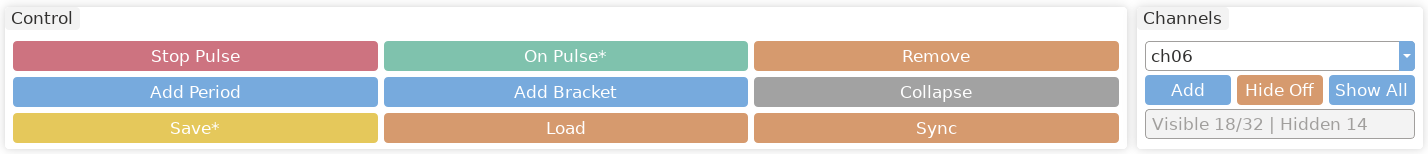
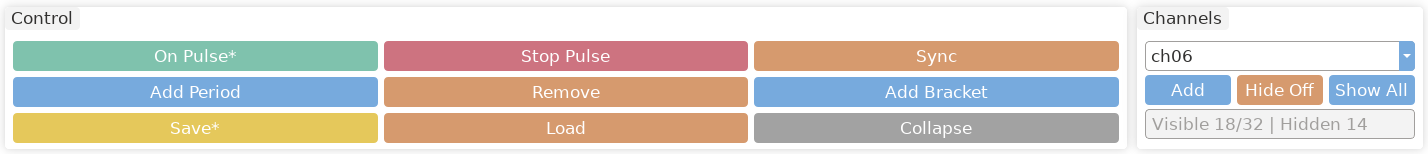
fix(rtl): latch DACs on inverted clk (eye-centre) -- kills the "third DA value between edge periods" race
The 4 da_clkN latch strobes were the plain FPGA clk (out_final[n]=clk_en[n]?clk:out[n]).
The 40 DAC data bits (zlc_bus_out -> da_bias_*/da_dipole) are launched on posedge clk, so a
DAC value CHANGES on the rising edge -- the same edge the DAC latched on, and (at a period
boundary) the same edge ~30 TTLs all switch on. A value change was therefore captured
half-old/half-new = a sporadic THIRD code. Seen on pulses/T.json (da_bias_y -192->388 =
code 320->900): a third level appeared sporadically between the two edge periods; a ~200 ms
HOLD gap only masked it by moving the DAC step off the busy boundary.

FIX: the clk mux now drives ~clk (out_final[n]=clk_en[n]?~clk:out[n]), so each DAC latches
on the clk FALLING edge = the CENTRE of the data eye (~10 ns settled each side at 50 MHz)
and the quiet half-cycle (nothing else switches there) -> always captures the clean settled
word, no gap needed, for every DAC and every transition.

Proof: sim/tb_da_clk_phase.v drives the REAL engine -- the segment step 320->900 is
glitch-free tick-by-tick (logic clean), and an I/O timing model shows a coincident latch
captures a third code for realistic per-bit skew while the eye-centre latch never does.

- top: out_final clk mux -> ~clk + DAC LATCH PHASE rationale comment
- test_top_has_per_channel_clk_mux: assert ~clk + rationale, reject plain clk
- pulse_table.py / image.py comments, fpga + frontend manuals (template + rendered + PDF),
[…]

diff --git a/docs/fpga_manual/fpga_manual_zh.tex b/docs/fpga_manual/fpga_manual_zh.tex
@@ -3,7 +3,7 @@
 
 \begin{document}
 \frontmatter
-\zlctitlepage{ZLC FPGA Pulse Streamer 手册}{Artix-7 35T 边沿流送器 / 1-tick 预取 / 无限流式扫描 / JTAG-to-AXI}{RTL、1-tick 预取、双 bank 流式、仿射扫描引擎、模拟总线 DAC、编译上传流程、资源预算}{2026-06-10}
+\zlctitlepage{ZLC FPGA Pulse Streamer 手册}{Artix-7 35T 边沿流送器 / 1-tick 预取 / 无限流式扫描 / JTAG-to-AXI}{RTL、1-tick 预取、双 bank 流式、仿射扫描引擎、模拟总线 DAC、编译上传流程、资源预算}{2026-06-11}
 \tableofcontents
 \cleardoublepage
 \mainmatter
@@ -29,7 +29,7 @@ BRAM:        1,800 Kb (50 x 36 Kb RAMB36)   DSP: 90
 \section{两句话能力总结}
 \begin{itemize}
   \item \tfocus{最小脉冲宽度与分辨率 = 1 个 tick（20 ns）}。背靠背的 1-tick 边沿能逐周期、一拍一个地打出来——靠的是一条连续预取流水线把 BRAM 读延迟藏掉（见第三章）。
-  \item \tfocus{扫描点数无上限}。常驻一个 2-bank ping-pong 窗口（4096 点），主机在游标后面把空出来的 bank 流式回填下一段（见第五章）。配合 N-slot 仿射扫描，\tfocus{duration 与 DAC 值}（仅这两类可扫）可以\tfocus{在一次连续运行里任意组合地无缝扫描}；channel 延时\tfocus{不是}扫描量，它是加在输出上的逐通道\tfocus{事件调度延时}（每条 channel 一个固定值，正/负/零；TTL 与 DAC 总线延时现在\tfocus{同型}（都是事件调度），上限同为 32 位字段约 $\pm 42.9$ s——毫秒级 emCCD 延时直接可用，见第六章）。
+  \item \tfocus{扫描点数无上限}。常驻一个 2-bank ping-pong 窗口（4096 点），主机在游标后面把空出来的 bank 流式回填下一段（见第五章）。配合 N-slot 仿射扫描，\tfocus{duration 与 DAC 值}（仅这两类可扫）可以\tfocus{在一次连续运行里任意组合地无缝扫描}；channel 延时\tfocus{不是}扫描量，它是加在输出上的逐通道\tfocus{事件调度延时}（每条 channel 一个固定值，正/负/零；TTL 上限由 32 位字段决定，约 $\pm 42.9$ s——毫秒级 emCCD 延时直接可用；DAC 总线延时仍走深度 \pyapi{DELAY_DEPTH} 的环形缓冲，上限 $\sim 41\,\mu$s，见第六章）。
 \end{itemize}
 
 \section{文件}
@@ -292,31 +292,31 @@ delay line (硬件, 真相): [.....0.....][原信号右移 d.....]   <- fire 前
 
 机理要点（\tfocus{一块普通环形缓冲，存输出、延后放出}）：
 \begin{itemize}
-  \item \tfocus{TTL：18 路真 TTL 输出可独立延时——事件调度器（event scheduler）。} TTL 波形是\tfocus{翻转稀疏}的，所以不再每拍存一位（旧 SRL 线 $\sim$4.1k LUT、上限 41 $\mu$s），改为存\tfocus{翻转事件}：无延时位在 tick $t$ 翻转时，向该 channel 的事件 FIFO（深 \pyapi{EVT_DEPTH}，默认 256，每项 49 bit）推入 $(t+d-1,\ \text{新电平})$；一个自由运行的 48 位全局计数器 \pyapi{g_time} 等值弹出到输出寄存器——于是 \pyapi{out[t]=in[t-d]} \tfocus{物理}精确成立（首个 $d$ 拍沉默 = 首帧正确；$d=1$ 走一级寄存器；$d=0$ 直通），\tfocus{不做任何按周期取模}。每个延时槽是自己的一块 \pyapi{ram_style="distributed"} 二维 FIFO，用 \pyapi{generate} 循环（\pyapi{g_evtfifo}）实例化：一整块三维 \pyapi{evt_mem[slot][depth]} 数组\tfocus{推不成}分布式 RAM（各槽读写指针独立，不像 \pyapi{bus_ring} 共享写指针），会退化成触发器——深度 256 即 $18\times256\times49\approx$ 226k FF，35T 放不下（一次真实 build 就是这样失败的）。FIFO 只\tfocus{压缩}给能延时的通道：62 = \tfocus{18 路真 TTL} + 40 个 DA 总线位（引脚由 \pyapi{bus_out} 驱动）+ 4 个 \pyapi{da_clk} 时钟脚，后两类\tfocus{没有} FIFO（GUI 置灰、API 拒绝它们的延时）。每通道 32 位延时值经 DELAY 寄存器区（\pyapi{R_DELAY_BASE}）上传，上限 32 位字段（$\sim$42.9 s，毫秒级 emCCD 延时直接可用）。合并仍是不相交直通——延时\tfocus{绝不}打扰别的 channel。
-  \item \tfocus{容量契约：在途翻转数 $\le$ \pyapi{EVT_DEPTH}（默认 256，可配置）。} 在 tick $t$ 推入的事件在 FIFO 里停留到 $t+d-1$，所以 FIFO 占用 = 该通道\tfocus{自己的 $d$ 窗口}内的翻转数。主机校验器对\tfocus{完整日程}做精确计数——每个扫描点按各自的仿射平移后的边沿时刻、bracket 循环、\pyapi{repeat_forever} 的回绕缝、以及\tfocus{跨多帧}的长窗口全部计入（早期版本只查单帧、漏掉了扫描缝和 $d>$ 帧长的情况）；在途数超过 \pyapi{EVT_DEPTH} 的延时会在上硬件前\tfocus{清晰报错并给出最长可用物理延时}，绝不静默丢弃。
-  \item \tfocus{深度从板级配置单源驱动。} \pyapi{evt_fifo_depth} 只写在 \filepath{streamer_config.json}：主机（校验/估算）读它，\tfocus{build 也读它}——\pyapi{image.emit_geom_tcl} 把配置变成顶层 \pyapi{-generic}（\pyapi{EVT_FIFO_DEPTH}/\pyapi{DELAY_DEPTH}/\pyapi{EDGE_ADDR_WIDTH}/\pyapi{BANK_SIZE}），\filepath{build_and_program.bat} 生成 \filepath{geom.tcl}，\filepath{create_project.tcl} 源入并 \pyapi{set_property generic}，所以改 JSON 就改\tfocus{综合出的 bitstream}（例如 LUT 紧张时把 256 改成 128）。契约测试断言每个 generic 都是真实的顶层参数（否则 Vivado 会静默忽略）。
-  \item \tfocus{DAC：4 条总线各自可延时，已统一进事件调度器，一条总线的 10 位共享一个延时。} 每个 DA bit 现在是\tfocus{自己的 1 位事件 FIFO}（\pyapi{g_busdly}，从无延时总线值 \pyapi{bus_value_active} 喂入，复位到该 bit 的 \pyapi{BUS_SAFE_VALUE} 电平 → 未驱动总线静息在 0\,V），机制与 TTL 完全相同：翻转入队、\pyapi{g_time} 等值弹出。一条总线的 10 个 bit\tfocus{共享同一个} 32 位逐总线延时（\pyapi{del_bus_ticks}），所以整条总线（固定值、被扫值、或 ramp）被同一个 $d$ 整体延后。\tfocus{旧的 2048-tick 环已删除}，DAC 延时范围现在与 TTL 一致（32 位）。
+  \item \tfocus{TTL：62 路全部可独立延时——事件调度器（event scheduler）。} TTL 波形是\tfocus{翻转稀疏}的，所以不再每拍存一位（旧 SRL 线 $\sim$4.1k LUT、上限 41 $\mu$s），改为存\tfocus{翻转事件}：无延时位在 tick $t$ 翻转时，向该 channel 的小事件 FIFO（深 \pyapi{EVT_DEPTH}=16，每项 49 bit）推入 $(t+d-1,\ \text{新电平})$；一个自由运行的 48 位全局计数器 \pyapi{g_time} 等值弹出到输出寄存器——于是 \pyapi{out[t]=in[t-d]} 精确成立（首个事件前为 0；$d=1$ 走一级寄存器；$d=0$ 直通）。存储随\tfocus{在途翻转数}而非延时长度增长：62 路共 $\sim$2k LUT，TTL 延时上限提升到 32 位字段（$\sim$42.9 s——毫秒级 emCCD 延时直接可用）。每通道 32 位延时值经独立的 DELAY 寄存器区（\pyapi{R_DELAY_BASE}，每 channel 一个 32 位字）上传。合并仍是不相交直通：被延时位用调度结果，其余位原样——延时\tfocus{绝不}打扰别的 channel。
+  \item \tfocus{容量契约：在途翻转数 $\le$ \pyapi{EVT_DEPTH}（默认 16，可配置）。} 在 tick $t$ 推入的事件在 FIFO 里停留到 $t+d-1$，所以 FIFO 占用 = 该通道\tfocus{自己的 $d$ 窗口}内的翻转数。主机校验器对\tfocus{完整日程}做精确计数——每个扫描点按各自的仿射平移后的边沿时刻、bracket 循环、\pyapi{repeat_forever} 的回绕缝、以及\tfocus{跨多帧}的长窗口全部计入（早期版本只查单帧、漏掉了扫描缝和 $d>$ 帧长的情况）；超限在上硬件前清晰报错。深度可整体重建调整：\filepath{streamer_config.json} 的 \pyapi{evt_fifo_depth} + 顶层参数 \pyapi{EVT_FIFO_DEPTH} 保持一致即可。
+  \item \tfocus{repeat\_forever 下长延时自动按周期取模。} 无限循环时无延时流是周期 $S$（一次完整扫掠的 tick 数）的周期函数，于是 $d \ge S$ 与 $d \bmod S$ \tfocus{稳态逐 tick 等价}——编译器自动把这样的延时按 $d \bmod S$ 写入寄存器（\pyapi{effective_channel_delays}），否则在途翻转数会按 $\sim$每扫掠翻转数 $\times d/S$ 增长而溢出。唯一差别在启动期：被延时通道从 $d \bmod S$ 起就开始输出（提前了 $\lfloor d/S \rfloor$ 个扫掠），而不是沉默整个 $d$；用户在脉冲表里写的原始延时原样保留。有限次运行不做此变换。
+  \item \tfocus{DAC：4 条总线各自可延时，一条总线的 10 位共享一个延时。} 每条 10-bit 总线有一条\tfocus{10 位宽的环}（\pyapi{bus_ring}），机制与 TTL 完全相同：存下该总线的无延时输出值，$d$ 个 tick 后放出。一条总线的 10 个 bit\tfocus{共享同一个}逐总线延时（\pyapi{del_bus_ticks}），所以整条总线（固定值、被扫值、或 ramp）都被整体延后，而不是每 bit 单独延。
   \item \tfocus{负延时 = 全局平移 $G$。} 一条 channel 的 $-d$ 等价于其它\tfocus{所有} channel 都 $+|d|$。主机把全局平移 $G=\max(0,-\min(\text{delays}))$ 折进每条 channel 的有效延时，使最早的那条 channel 落在 0、缓冲只会看到 $\ge 0$ 的延时。零延时即直通。
-  \item \tfocus{DAC 与 TTL 延时范围一致（已统一）。} DAC 总线延时和 TTL 同型的事件调度器，上限同为 32 位字段（$\sim$42.9\,s）——所以负 TTL 延时折出的全局平移 $G$ 也能加到总线上，\tfocus{不再有范围不匹配}（这正是统一的目的）。容量是\tfocus{每 bit 在途数值变化数} $\le$ \pyapi{BUS_EVT_DEPTH}（默认 64：有 \pyapi{bus_count*bus_width}=40 个 FIFO、比 TTL 浅以省 LUT；可在 \filepath{streamer_config.json} 的 \pyapi{bus_evt_fifo_depth} 重配）。唯一压力源是\tfocus{被延时的长 ramp}（每步一个数值变化事件），超 \pyapi{BUS_EVT_DEPTH} 在上硬件前清晰报错；普通 DAC 用法远低于此。
+  \item \tfocus{DAC 总线延时有界（环形缓冲的根本性质）。} 与 TTL 的事件调度器不同，DAC 总线延时仍是每拍存值的环形缓冲：深度 \pyapi{DELAY_DEPTH = 2048} 个 tick（20\,ns/tick 下约 40\,$\mu$s）。要把一个\tfocus{非重复}的总线值流延时 $d$，必须存下它 $d$ 个 tick 的输出——这是字面延时线的本质；但缓冲存的是\tfocus{输出}（不是整张序列），所以它很小。超过 \pyapi{DELAY_DEPTH} 的总线延时会在 validate 与映像打包时\tfocus{被清晰报错拒绝}（在上硬件之前，绝不静默）。TTL 延时\tfocus{不受}此深度约束（32 位字段，受上面的在途翻转契约约束）。
   \item \pyapi{repeat_forever} 倒回\tfocus{边沿 0}、重放\tfocus{整张帧}——因为延时是加在输出上的逐通道延时线（不烘进边沿），没有需要跳过的"加性延时前导帧"。编译器恒发 \pyapi{repeat_from_index}=0；RTL（\filepath{zlc_edge_streamer.v} 与顶层）仍保留 \pyapi{repeat_from_loop_start} 倒回稳态帧的分支，但对当前实发的程序而言是死路径。
 \end{itemize}
 
 \begin{notebox}[如何证明]
-预览保持循环（只为显示）。硬件/编译路径由一个字面延时真值预言 \pyapi{delay_line_reference}（\pyapi{output_delayed[t]=output_undelayed[t-d]}，fire 前为 0）加上 \filepath{host/engine_model.py} 的事件调度器/环形缓冲镜像逐周期模型证明：编译出的程序过这些周期模型后，与延时线真值\tfocus{逐 tick 相同}（覆盖 TTL 多 channel、DAC 逐总线、负延时折 $G$、与 duration 扫描组合）。容量契约由三层证据锁定：（1）随机化测试证明解析的在途计数 = 逐拍 push/pop 占用的暴力模拟，且周期公式 = 显式展开；（2）只要解析说"装得下深度 $K$"，$K$ 深 FIFO 镜像就逐 tick 复现理想延时；（3）xsim 测试台 \filepath{sim/tb_evt_depth.v} 在\tfocus{真 RTL 引擎}上验证边界：恰好 16 个在途翻转 = tick 级精确，16+2 个 = 只丢弃多余的 2 个翻转（输出只缺那一个脉冲，绝无污染）。超过 32 位字段的\tfocus{总线}延时在 \pyapi{validate_pulse_streamer_program} 与 \pyapi{pack_program} 处都被清晰拒绝（DAC 与 TTL 同型、同范围）。
+预览保持循环（只为显示）。硬件/编译路径由一个字面延时真值预言 \pyapi{delay_line_reference}（\pyapi{output_delayed[t]=output_undelayed[t-d]}，fire 前为 0）加上 \filepath{host/engine_model.py} 的事件调度器/环形缓冲镜像逐周期模型证明：编译出的程序过这些周期模型后，与延时线真值\tfocus{逐 tick 相同}（覆盖 TTL 多 channel、DAC 逐总线、负延时折 $G$、与 duration 扫描组合）。容量契约由三层证据锁定：（1）随机化测试证明解析的在途计数 = 逐拍 push/pop 占用的暴力模拟，且周期公式 = 显式展开；（2）只要解析说"装得下深度 $K$"，$K$ 深 FIFO 镜像就逐 tick 复现理想延时；（3）xsim 测试台 \filepath{sim/tb_evt_depth.v} 在\tfocus{真 RTL 引擎}上验证边界：恰好 16 个在途翻转 = tick 级精确，16+2 个 = 只丢弃多余的 2 个翻转（输出只缺那一个脉冲，绝无污染）。超过 \pyapi{DELAY_DEPTH}=2048 的\tfocus{总线}延时在 \pyapi{validate_pulse_streamer_program} 与 \pyapi{pack_program} 处都被清晰拒绝。
 \end{notebox}
 
 \section{DAC 总线延时与 TTL 完全同源}
-模拟总线（DAC）的延时机制和 TTL\tfocus{完全相同}且已统一：每个 DA bit 是\tfocus{自己的 1 位事件 FIFO}（\pyapi{g_busdly}，从无延时总线值喂入），翻转入队、\pyapi{g_time} 等值弹出。一条总线的\tfocus{10 个 bit 共享一个} 32 位逐总线延时（\pyapi{del_bus_ticks}），所以无论这个 DAC 值是\tfocus{固定}值、\tfocus{被扫}值，还是\tfocus{斜坡（ramp）}，整条总线都被同一个 $d$ 整体延后；在 $t < d$ 之前总线输出保持 \pyapi{BUS_SAFE_VALUE} 中点码（0\,V）、首帧正确。逐总线延时与 TTL 共享\tfocus{同一个}全局平移 $G$ 且\tfocus{范围一致}（32 位），容量是\tfocus{每 bit 在途数值变化数} $\le$ \pyapi{BUS_EVT_DEPTH}（超过即清晰拒绝）。主机把每条总线的延时 tick 数作为常数携带（\pyapi{bus_delays}）。
+模拟总线（DAC）的延时机制和 TTL\tfocus{完全相同}：每条总线一条 10 位宽的环（\pyapi{bus_ring}），存下该总线的无延时输出，$d$ 个 tick 后放出。一条总线的\tfocus{10 个 bit 共享一个}逐总线延时（\pyapi{del_bus_ticks}），所以无论这个 DAC 值是\tfocus{固定}值、\tfocus{被扫}值，还是\tfocus{斜坡（ramp）}，整条总线都被同一个 $d$ 整体延后；在 $t < d$ 之前总线输出为 0。逐总线延时与 TTL 共享\tfocus{同一个}全局平移 $G$，并受\tfocus{同一个}有界深度 \pyapi{DELAY_DEPTH} 约束（超过即清晰拒绝）。主机把每条总线的延时 tick 数作为常数携带（\pyapi{bus_delays}）。
 
 \textbf{成本小结。} TTL 用\tfocus{一条} \pyapi{CHANNEL_COUNT} 位宽的环、每条 DAC 总线用一条 10 位宽的环；这些环都是\tfocus{分布式 RAM（LUTRAM / distributed）}，\tfocus{不占额外 BRAM}（\pyapi{ram_style="distributed"}）。延时 tick 数走稠密的 CTRL 字（\pyapi{delay_ticks} / \pyapi{bus_delay_ticks}）下发，\tfocus{没有}延时上传映像、\tfocus{没有}迷你装载器。在 35T（\pyapi{xc7a35t}）上整套延时落地后仍有余量：LUT 约 59\%、BRAM 39/50、DSP 约 58\%。
 
 \section{逐通道 clk 输出（把某通道直接接到时钟）}
 有时需要某个 TTL 引脚直接输出 FPGA 的 \pyapi{clk}（例如给外部 DAC 喂时钟），而引擎按 tick 寄存的输出本身\tfocus{产生不出}一个时钟方波。为此顶层在引脚映射上加了一层\tfocus{运行时可选的 clk 复用}：一个 \pyapi{CHANNEL_COUNT} 位的 \pyapi{clk\_enable} 掩码（CTRL 字 \pyapi{C_CLK_ENABLE}，紧接 \pyapi{BUS_DELAY_TICKS} 之后，62 位占 2 个字）随程序映像下发，顶层据此把每个引脚选成
 \begin{codeblock}[逐通道 clk 复用（zlc\_pulse\_streamer\_top.v）]
-assign out_final[n] = clk_en[n] ? clk : out[n];   // n: 0..CHANNEL_COUNT-1
+assign out_final[n] = clk_en[n] ? ~clk : out[n];  // n: 0..CHANNEL_COUNT-1（strobe = 反相 clk）
 // 引脚映射改为驱动 out_final（不是 out）：assign trig = out_final[6]; assign da_clk0 = out_final[28]; ...
 \end{codeblock}
-所以被标记为 clk 的通道，其引脚\tfocus{恒等于 clk}，与引擎完全无关。配套地，主机编译时把该通道的 mask 位\tfocus{强制清 0}（\pyapi{masks[i] &= ~clk_enable}），引擎\tfocus{绝不驱动}它、也就\tfocus{不会覆盖}clk 行为；\pyapi{clk\_enable} 掩码由 \pyapi{PulseTableState.clk\_channels} 经 \pyapi{clk\_enable\_mask()} 算出，随 \pyapi{RuntimeSequenceProgram.clk\_enable} 打包进 CTRL 字（\pyapi{host.image.CtrlWords.CLK_ENABLE}）。换哪条通道做 clk\tfocus{只是改这份运行时掩码、不需要重新综合}；但首次引入这套 mux 需要重新构建一次 bitstream。DAC 总线成员位不允许设成 clk（会破坏 DAC，GUI 已禁用）。这套 mux 是纯组合逻辑、几乎不占资源。
+所以被标记为 clk 的通道，其引脚输出\tfocus{反相的 clk}（即 clk 的\tfocus{下降沿}对应选通上升沿），与引擎完全无关。\tfocus{为什么是反相而不是直接 clk}：DAC 的 40 个并行数据位（\pyapi{da\_bias\_*}/\pyapi{da\_dipole}）由引擎在 \pyapi{posedge clk} 寄存——也就是\tfocus{在上升沿改变}。若选通就是 \pyapi{clk}，DAC 会在\tfocus{同一个上升沿}锁存正在跳变的数据（而且 period 边界上还叠加几十路 TTL 同时翻转的开关噪声），把一次跳变锁成\tfocus{半新半旧的第三个码}——这正是\tfocus{“两个 edge period 之间偶发出现第三种 DA 值”}的根因（当年靠在两段之间塞一段 $\sim$200\,ms 的 hold 把 DAC 跳变挪离这个忙沿，只是治标）。用\tfocus{反相 clk}做选通，DAC 改在 clk 下降沿锁存 = 数据眼图\tfocus{正中}（50\,MHz 下两侧各 $\sim$10\,ns 已稳定）、且是没有任何东西翻转的\tfocus{安静半周期}，于是\tfocus{永远}锁到干净稳定的码。证据见 \filepath{sim/tb\_da\_clk\_phase.v}（引擎段跳变逐 tick 干净无中间值；同沿锁存在真实偏斜下会锁进第三个码，眼图正中锁存\tfocus{从不}）。配套地，主机编译时把该通道的 mask 位\tfocus{强制清 0}（\pyapi{masks[i] &= ~clk_enable}），引擎\tfocus{绝不驱动}它、也就\tfocus{不会覆盖}clk 行为；\pyapi{clk\_enable} 掩码由 \pyapi{PulseTableState.clk\_channels} 经 \pyapi{clk\_enable\_mask()} 算出，随 \pyapi{RuntimeSequenceProgram.clk\_enable} 打包进 CTRL 字（\pyapi{host.image.CtrlWords.CLK_ENABLE}）。换哪条通道做 clk\tfocus{只是改这份运行时掩码、不需要重新综合}；但首次引入这套 mux 需要重新构建一次 bitstream。DAC 总线成员位不允许设成 clk（会破坏 DAC，GUI 已禁用）。这套 mux 是纯组合逻辑、几乎不占资源。
 
 \section{两件没有下放进 sequencer 的事}
 两条边界澄清，免得把架构搞混：
@@ -335,10 +335,10 @@ assign out_final[n] = clk_en[n] ? clk : out[n];   // n: 0..CHANNEL_COUNT-1
 RAMB36: 39/50 = 78%      LUT: 26%   FF: 12%   DSP: 9%
 \end{codeblock}
 
-三块并行边沿 BRAM（tick/coeff/mask）+ 扫描窗口 BRAM 占了 RAMB36 预算的大头；\tfocus{总线段表是 LUTRAM（distributed），不占 RAMB36}——因为总线/ramp 引擎每 tick 组合读它们，搬进 BRAM 会破坏组合读。\tfocus{事件调度延时}（18 路真 TTL 各一块 \pyapi{EVT_DEPTH}=256 深 + 40 个 DA bit 各一块 \pyapi{BUS_EVT_DEPTH}=64 深的 1 位事件 FIFO）同样是分布式 RAM，\tfocus{不占额外 BRAM}——存的是\tfocus{翻转事件}（而非每拍值），且只给能延时的信号付深度。把延时一并算进去后，35T 的整体落地约为 LUT 81\%、BRAM 39/50、DSP 58\%（逐 bit DA @256 会到 ~103\% 超限，故 DA 用 64 深）。Vivado \pyapi{report_utilization} / \pyapi{report_timing_summary} 是最终权威，Python 估算只是预算指引。
+三块并行边沿 BRAM（tick/coeff/mask）+ 扫描窗口 BRAM 占了 RAMB36 预算的大头；\tfocus{总线段表是 LUTRAM（distributed），不占 RAMB36}——因为总线/ramp 引擎每 tick 组合读它们，搬进 BRAM 会破坏组合读。\tfocus{字面延时线}（TTL 的 \pyapi{CHANNEL_COUNT} 位宽环 + 每条 DAC 总线的 10 位宽环，深度 \pyapi{DELAY_DEPTH}=2048）同样是分布式 RAM，\tfocus{不占额外 BRAM}——这正是字面延时线能放进 35T 的原因：它存的是\tfocus{输出}（而非整张序列），所以缓冲很小。把延时线一并算进去后，35T 的整体落地约为 LUT 59\%、BRAM 39/50、DSP 58\%。Vivado \pyapi{report_utilization} / \pyapi{report_timing_summary} 是最终权威，Python 估算只是预算指引。
 
 \section{64 位 tick 架构评估（何时需要、怎么改、资源够不够）}
-当前 32 位 tick（20 ns）封顶的是\tfocus{单个帧}的时长 $\sim$85.9 s——不是总运行时长（repeat forever 无限跑、扫掠点数无上限、实验循环不受限），TTL 延时另有 32 位字段（$\sim$42.9 s，物理延时、首帧正确、\tfocus{不取模}）。真正的长期隐患只有一个：调度器的自由运行计数器 \pyapi{g_time} 是 48 位，连续运行 $\sim$65 天后回绕。
+当前 32 位 tick（20 ns）封顶的是\tfocus{单个帧}的时长 $\sim$85.9 s——不是总运行时长（repeat forever 无限跑、扫掠点数无上限、实验循环不受限），TTL 延时另有 32 位字段（$\sim$42.9 s，且 repeat forever 下更长的延时自动按周期取模）。真正的长期隐患只有一个：调度器的自由运行计数器 \pyapi{g_time} 是 48 位，连续运行 $\sim$65 天后回绕。
 
 若将来确有 $>$85.9 s 的单帧需求，可行方案是\tfocus{只加宽基准时间轴}：边沿基准 tick、帧计数器 \pyapi{tc}、\pyapi{loop_end} 与各比较器升到 64 位，而\tfocus{扫描点 slot 值与系数保持 32/16 位}（每个扫描点的仿射\tfocus{偏移}量 $\pm 42.9$ s 足够）——这样 \pyapi{coeff$\times$slot} 乘积和全部 52 个 DSP 映射\tfocus{原样不动}，只有末级累加/加法变宽（进位链，不吃 DSP）。代价：tick BRAM $4096\times 32 \to 4096\times 64$ 即 $+4$ 块 RAMB36（27$\to$31）、比较器/影子寄存器约 $+1$k LUT、$+1.5$k FF；64 位进位链 $\sim$4 ns，远小于 20 ns 周期，1-tick 播放契约不受影响。CTRL 布局上 \pyapi{LOOP_END_TICK} 变 LO/HI 两字、映像 tick 字加倍（pack/unpack/回读校验同步改，一次重建即可，无需兼容）。预计落地：RAMB36 31/50、LUT $\sim$64\%、DSP 不变——\tfocus{35T 上可行但目前不需要}。顺手项：下次重建时把 \pyapi{g_time} 48$\to$64 位（每通道只多十几个触发器与比较位），即可消除 65 天回绕。详细论证见 \filepath{docs/MAINTAINER_NOTES.md} §14。
 

diff --git a/tests/test_neutral_atom_lightweight.py b/tests/test_neutral_atom_lightweight.py
@@ -534,7 +534,7 @@ def test_fpga_pulse_streamer_repo_vivado_entrypoint_contract():
     # final top: 62-pin board map + the FINAL engine instance + forced-latency build.
     assert "module zlc_pulse_streamer_top" in top
     assert "parameter integer CHANNEL_COUNT = 62" in top
-    # The pin map drives out_final (the clk-muxed engine output: out_final[n] = clk_en[n] ? clk : out[n]).
+    # The pin map drives out_final (the clk-muxed engine output: out_final[n] = clk_en[n] ? ~clk : out[n]).
     assert "assign trig = out_final[6];" in top
     assert "assign trap = out_final[9];" in top
     assert "assign probe = out_final[3];" in top
@@ -1230,14 +1230,21 @@ def test_clk_channel_excluded_from_engine_and_carried_as_mask(tmp_path):
 
 
 def test_top_has_per_channel_clk_mux():
-    """The board top muxes clk onto a channel's pin via a runtime CTRL clk-enable mask
-    (out_final[n] = clk_en[n] ? clk : out[n]); the pin map drives out_final, and the CTRL
-    word offset matches host.image.CtrlWords.CLK_ENABLE.  (No Verilog sim -> structure check.)"""
+    """The board top muxes the DAC-latch strobe onto a clk channel's pin via a runtime CTRL
+    clk-enable mask.  The strobe is the PHASE-INVERTED clk (out_final[n] = clk_en[n] ? ~clk
+    : out[n]) so the DAC latches the parallel word at the CENTRE of its data eye (clk
+    falling edge) instead of coincident with the posedge data change -- that coincidence was
+    the "third DA value between two edge periods" race (sim/tb_da_clk_phase.v).  The pin map
+    drives out_final, and the CTRL word offset matches host.image.CtrlWords.CLK_ENABLE.
+    (No Verilog sim -> structure check.)"""
 
     root = Path(__file__).resolve().parents[1]
     top = (root / "fpga" / "pulse_streamer" / "zlc_pulse_streamer_top.v").read_text(encoding="utf-8")
     assert "C_CLK_ENABLE" in top
-    assert "out_final[cmx] = clk_en[cmx] ? clk : out[cmx]" in top
+    # ~clk, NOT plain clk: latch the DAC at the data-eye centre (do not regress this).
+    assert "out_final[cmx] = clk_en[cmx] ? ~clk : out[cmx]" in top
+    assert "out_final[cmx] = clk_en[cmx] ? clk : out[cmx]" not in top
+    assert "DAC LATCH PHASE" in top                    # rationale comment is present
     assert "assign cooling = out_final[0]" in top      # the pin map is driven by the muxed output
     assert "assign da_clk0 = out_final[28]" in top
     # the CTRL offset lines up with the host image layout

diff --git a/fpga/pulse_streamer/host/image.py b/fpga/pulse_streamer/host/image.py
@@ -91,8 +91,9 @@ class CtrlWords:
     # PER-BUS DAC DELAY -- the same LITERAL delay line, one delay shared by all 10 bits of a bus:
     # bus b is delayed by ``bus_delay_ticks[b]`` ticks (0 = passthrough), dense per-bus.
     BUS_DELAY_TICKS = 44  # dense per-bus delay (delay_tick_width bits each) -> ceil(4*12/32)=2 words (44..45)
-    # PER-CHANNEL CLK MASK -- channels wired directly to the FPGA clk (output = clk).  One
-    # bit per channel; the top muxes clk onto those pins (out_final[n]=clk_en[n]?clk:out[n])
+    # PER-CHANNEL CLK MASK -- channels wired to the FPGA clk (a DAC latch strobe).  One bit
+    # per channel; the top muxes the strobe onto those pins (out_final[n]=clk_en[n]?~clk:out[n],
+    # the INVERTED clk so the DAC latches at its data-eye centre -- see top "DAC LATCH PHASE")
     # and the engine's bit for them is forced 0 so it never fights the clk.  ceil(62/32)=2
     # words (46..47); locked to zlc_pulse_streamer_top.v by test_final_top_regions_match_image.
     CLK_ENABLE = 46

diff --git a/Zou_lab_control/neutral_atom/timing/pulse_table.py b/Zou_lab_control/neutral_atom/timing/pulse_table.py
@@ -440,7 +440,9 @@ class PulseTableState:
     def clk_enable_mask(self) -> int:
         """Bitmask (bit n = channel ``self.channels[n]``) of channels wired to the FPGA
         clk.  The compiler forces these bits to 0 in the edge table and ships this mask so
-        the top muxes clk onto their pins (out_final[n] = clk_en[n] ? clk : engine_out[n])."""
+        the top muxes the DAC strobe onto their pins (out_final[n] = clk_en[n] ? ~clk :
+        engine_out[n]) -- the INVERTED clk so the DAC latches the parallel word at its
+        data-eye centre (see zlc_pulse_streamer_top.v "DAC LATCH PHASE")."""
 
         mask = 0
         for channel in self.clk_channels:

diff --git a/docs/MAINTAINER_NOTES.md b/docs/MAINTAINER_NOTES.md
@@ -671,12 +671,30 @@ The three bring-up items from the adversarial RTL hunt are now fixed/guarded. Th
   `test_delay_tail_emits_after_done_contract`. NOTE: the agent-suggested
   `del_fill < DELAY_DEPTH` gate was rejected — `del_fill` saturates during any run longer
   than 2048 ticks, which would disable the fix exactly when it matters.
-- **B1/B2 — `da_clk0..3` = `out_final[28/39/50/61]`: BY DESIGN (no RTL change).** The clk
-  button (clk_channels → CLK_ENABLE mux) exists precisely to wire these strobe pins to the
-  FPGA clk. New safety net: `_warn_idle_dac_clock_pins` (sequencer.py) warns at compile
-  time when DAC buses are driven while a `da_clkN`-labeled channel is neither clk-enabled
-  nor toggled (a frozen DAC would otherwise be silent). A warning, not an error — driving
-  the strobe as a TTL pattern stays allowed.
+- **B1/B2 — `da_clk0..3` = `out_final[28/39/50/61]`: the clk button wires these strobe pins
+  to the FPGA clk.** New safety net: `_warn_idle_dac_clock_pins` (sequencer.py) warns at
+  compile time when DAC buses are driven while a `da_clkN`-labeled channel is neither
+  clk-enabled nor toggled (a frozen DAC would otherwise be silent). A warning, not an error.
+- **B1/B2 — REVISED 2026-06-11 (⚠️ needs bitstream rebuild): the strobe is now `~clk`, NOT
+  `clk` — the "third DA value between two edge periods" race.** The earlier note said "BY
+  DESIGN, no RTL change"; that was WRONG and missed a real source-synchronous output hazard.
+  The 40 DAC data bits (`zlc_bus_out` → `da_bias_*`/`da_dipole`) are launched on `posedge clk`,
+  so a DAC value CHANGES on the rising edge. With the strobe = plain `clk` the DAC latched on
+  that SAME rising edge — coincident with the data transition AND (at a period boundary) with
+  ~30 TTL outputs all switching — so a value change was captured half-old/half-new = a
+  sporadic THIRD code. User-visible on `pulses/T.json` (da_bias_y steps −192→388 = code
+  320→900): a third level appeared sporadically between the two edge periods, and a ~200 ms
+  HOLD gap "fixed" it only by moving the DAC step off the busy boundary (a band-aid). FIX:
+  the clk mux now drives `out_final[n] = clk_en[n] ? ~clk : out[n]`, so the DAC latches on the
+  clk FALLING edge = the CENTRE of the data eye (~10 ns settled each side at 50 MHz) and the
+  quiet half-cycle (nothing else switches there) → always captures the clean settled word, no
+  gap needed, for every DAC and every transition. The latch interface is otherwise
+  unconstrained in `board.xdc` (no `create_generated_clock`/`set_output_delay`); the
+  half-period margin is what makes it robust at 50 MHz (add ODDR clock-forwarding + output
+  constraints if the rate ever rises). Proven in `sim/tb_da_clk_phase.v` (the engine step is
+  glitch-free tick-by-tick; a coincident latch captures a third code for realistic per-bit
+  skew, the eye-centre latch never does). Locked by `test_top_has_per_channel_clk_mux`
+  (asserts `~clk` and the "DAC LATCH PHASE" rationale comment, rejects plain `clk`).
 - **U1 (superseded 2026-06-09) — ramp engine is now a multi-LSB Bresenham stepper.** The
   original engine moved at most 1 LSB/tick then snapped at `stop_tick`; the user ruled
   that out ("按照计算出来的 step 来尽量靠近 ramp"). The RTL now computes `step = Δ//span`